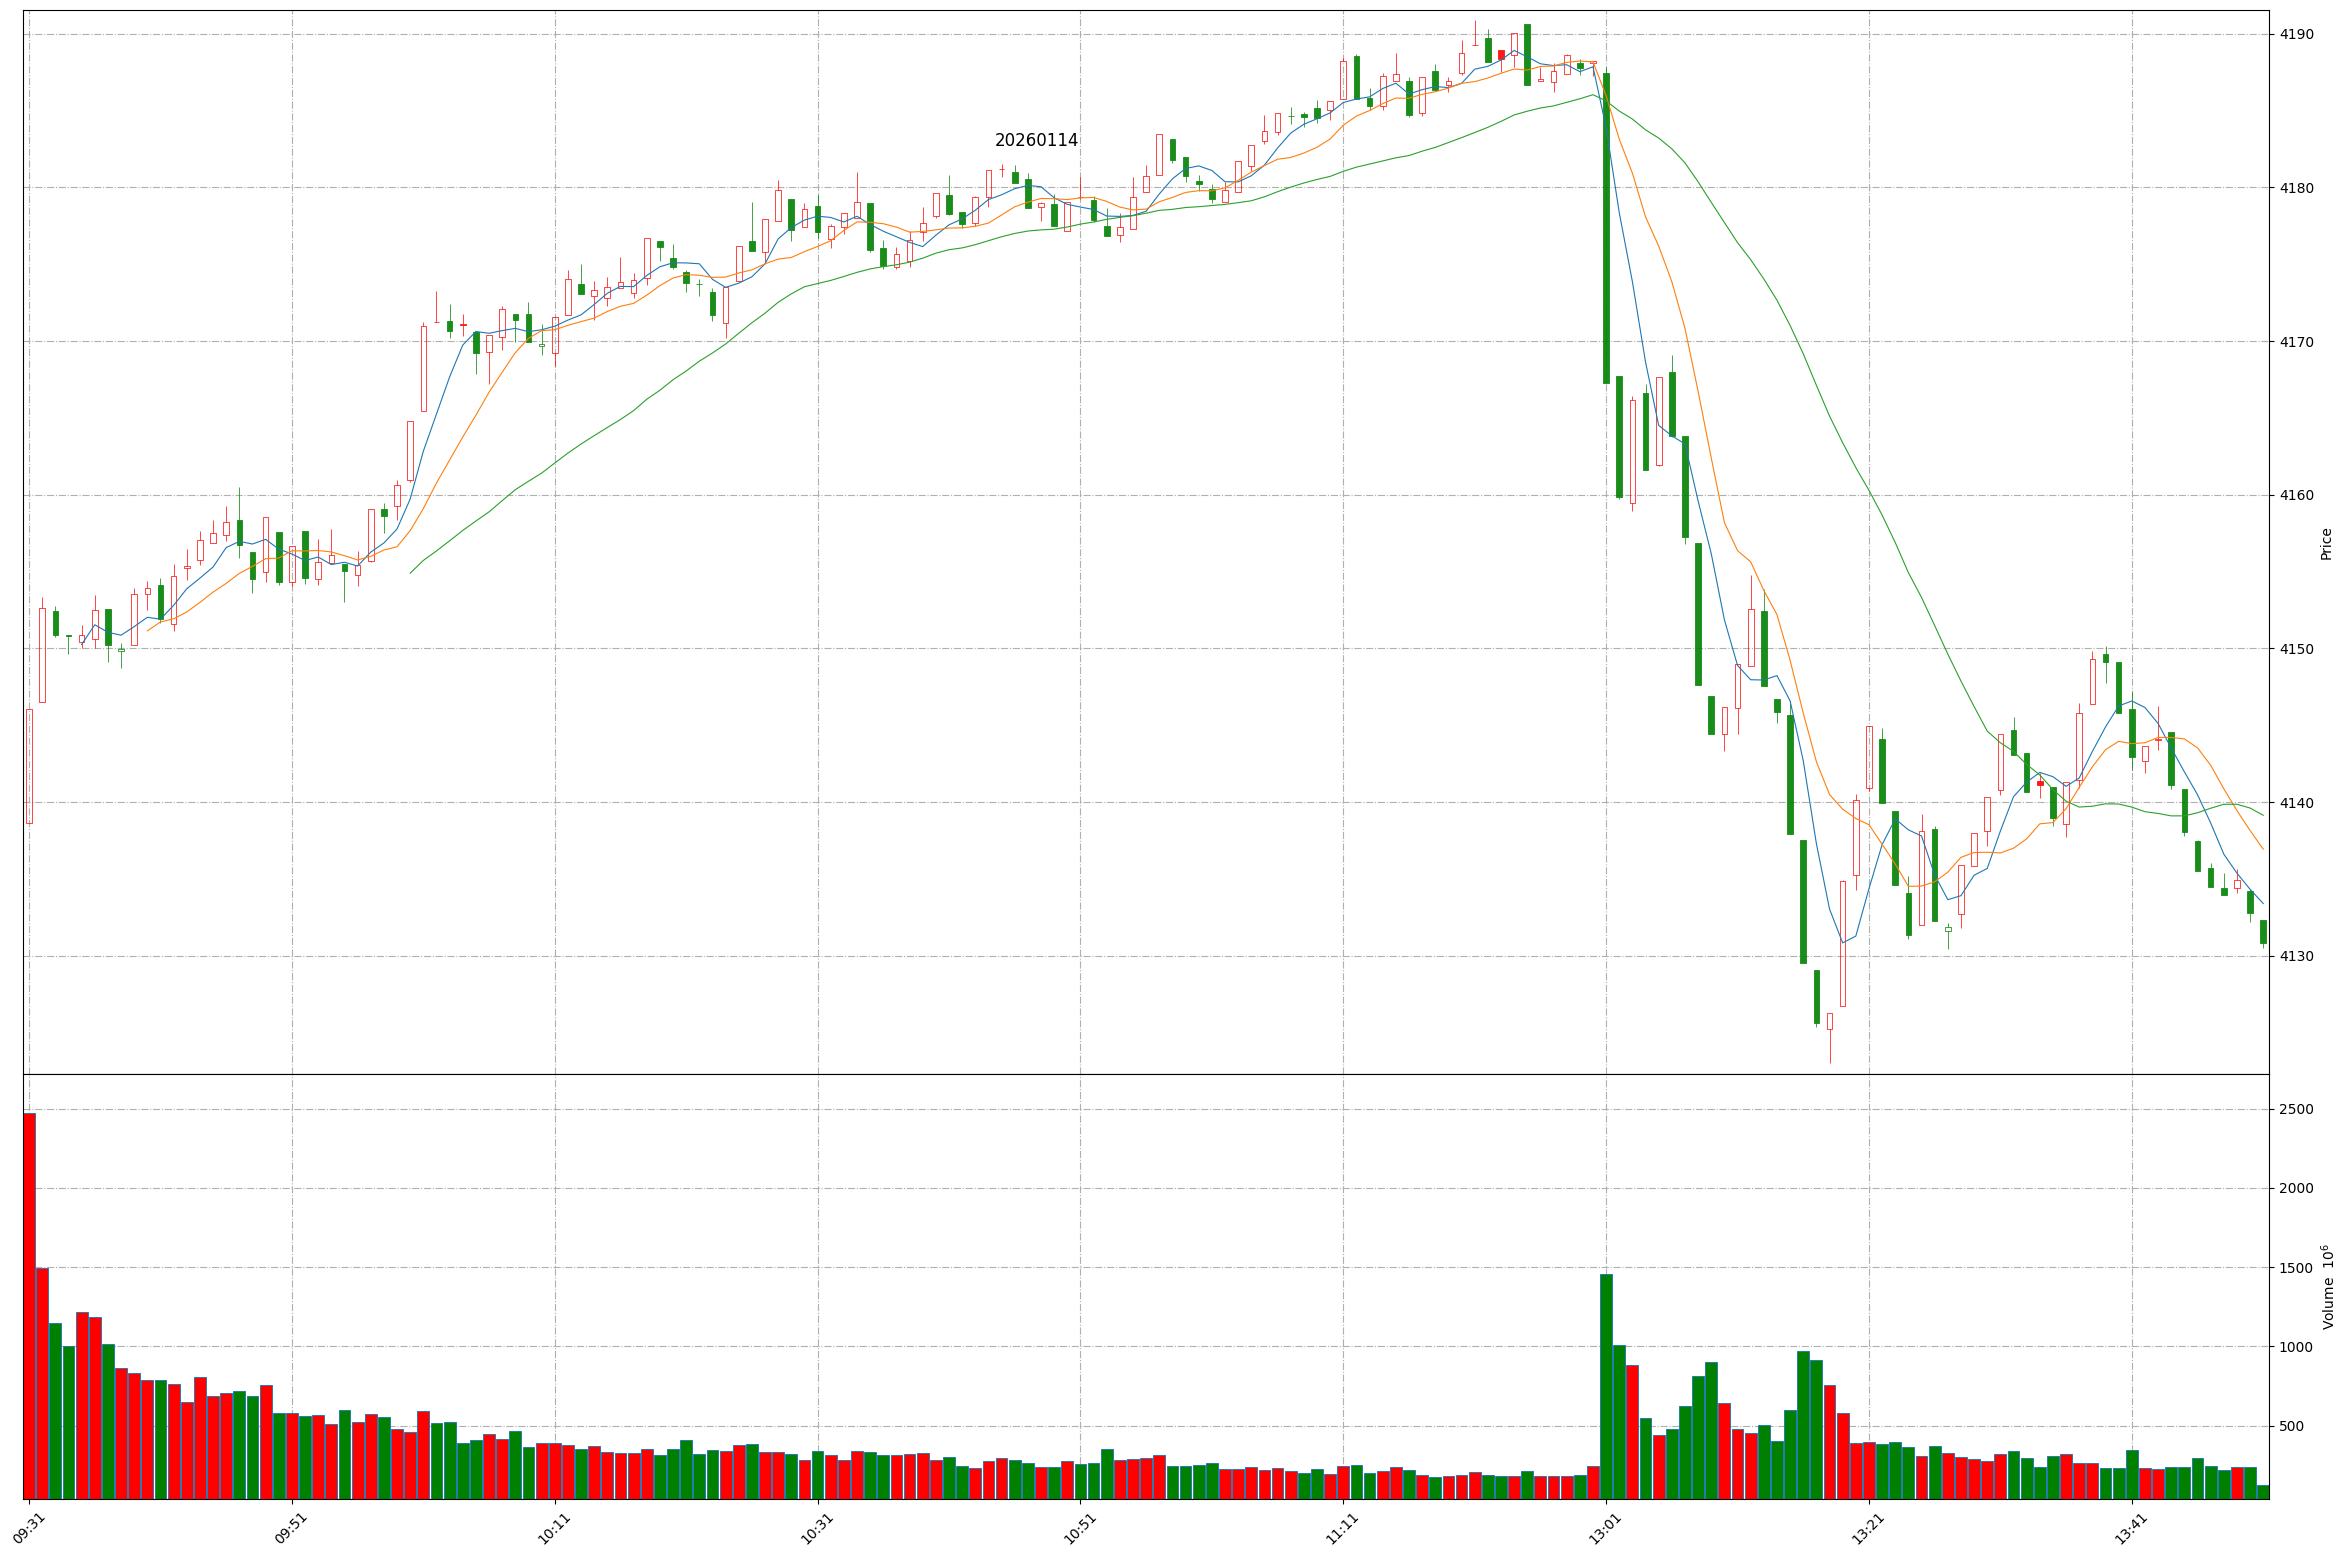
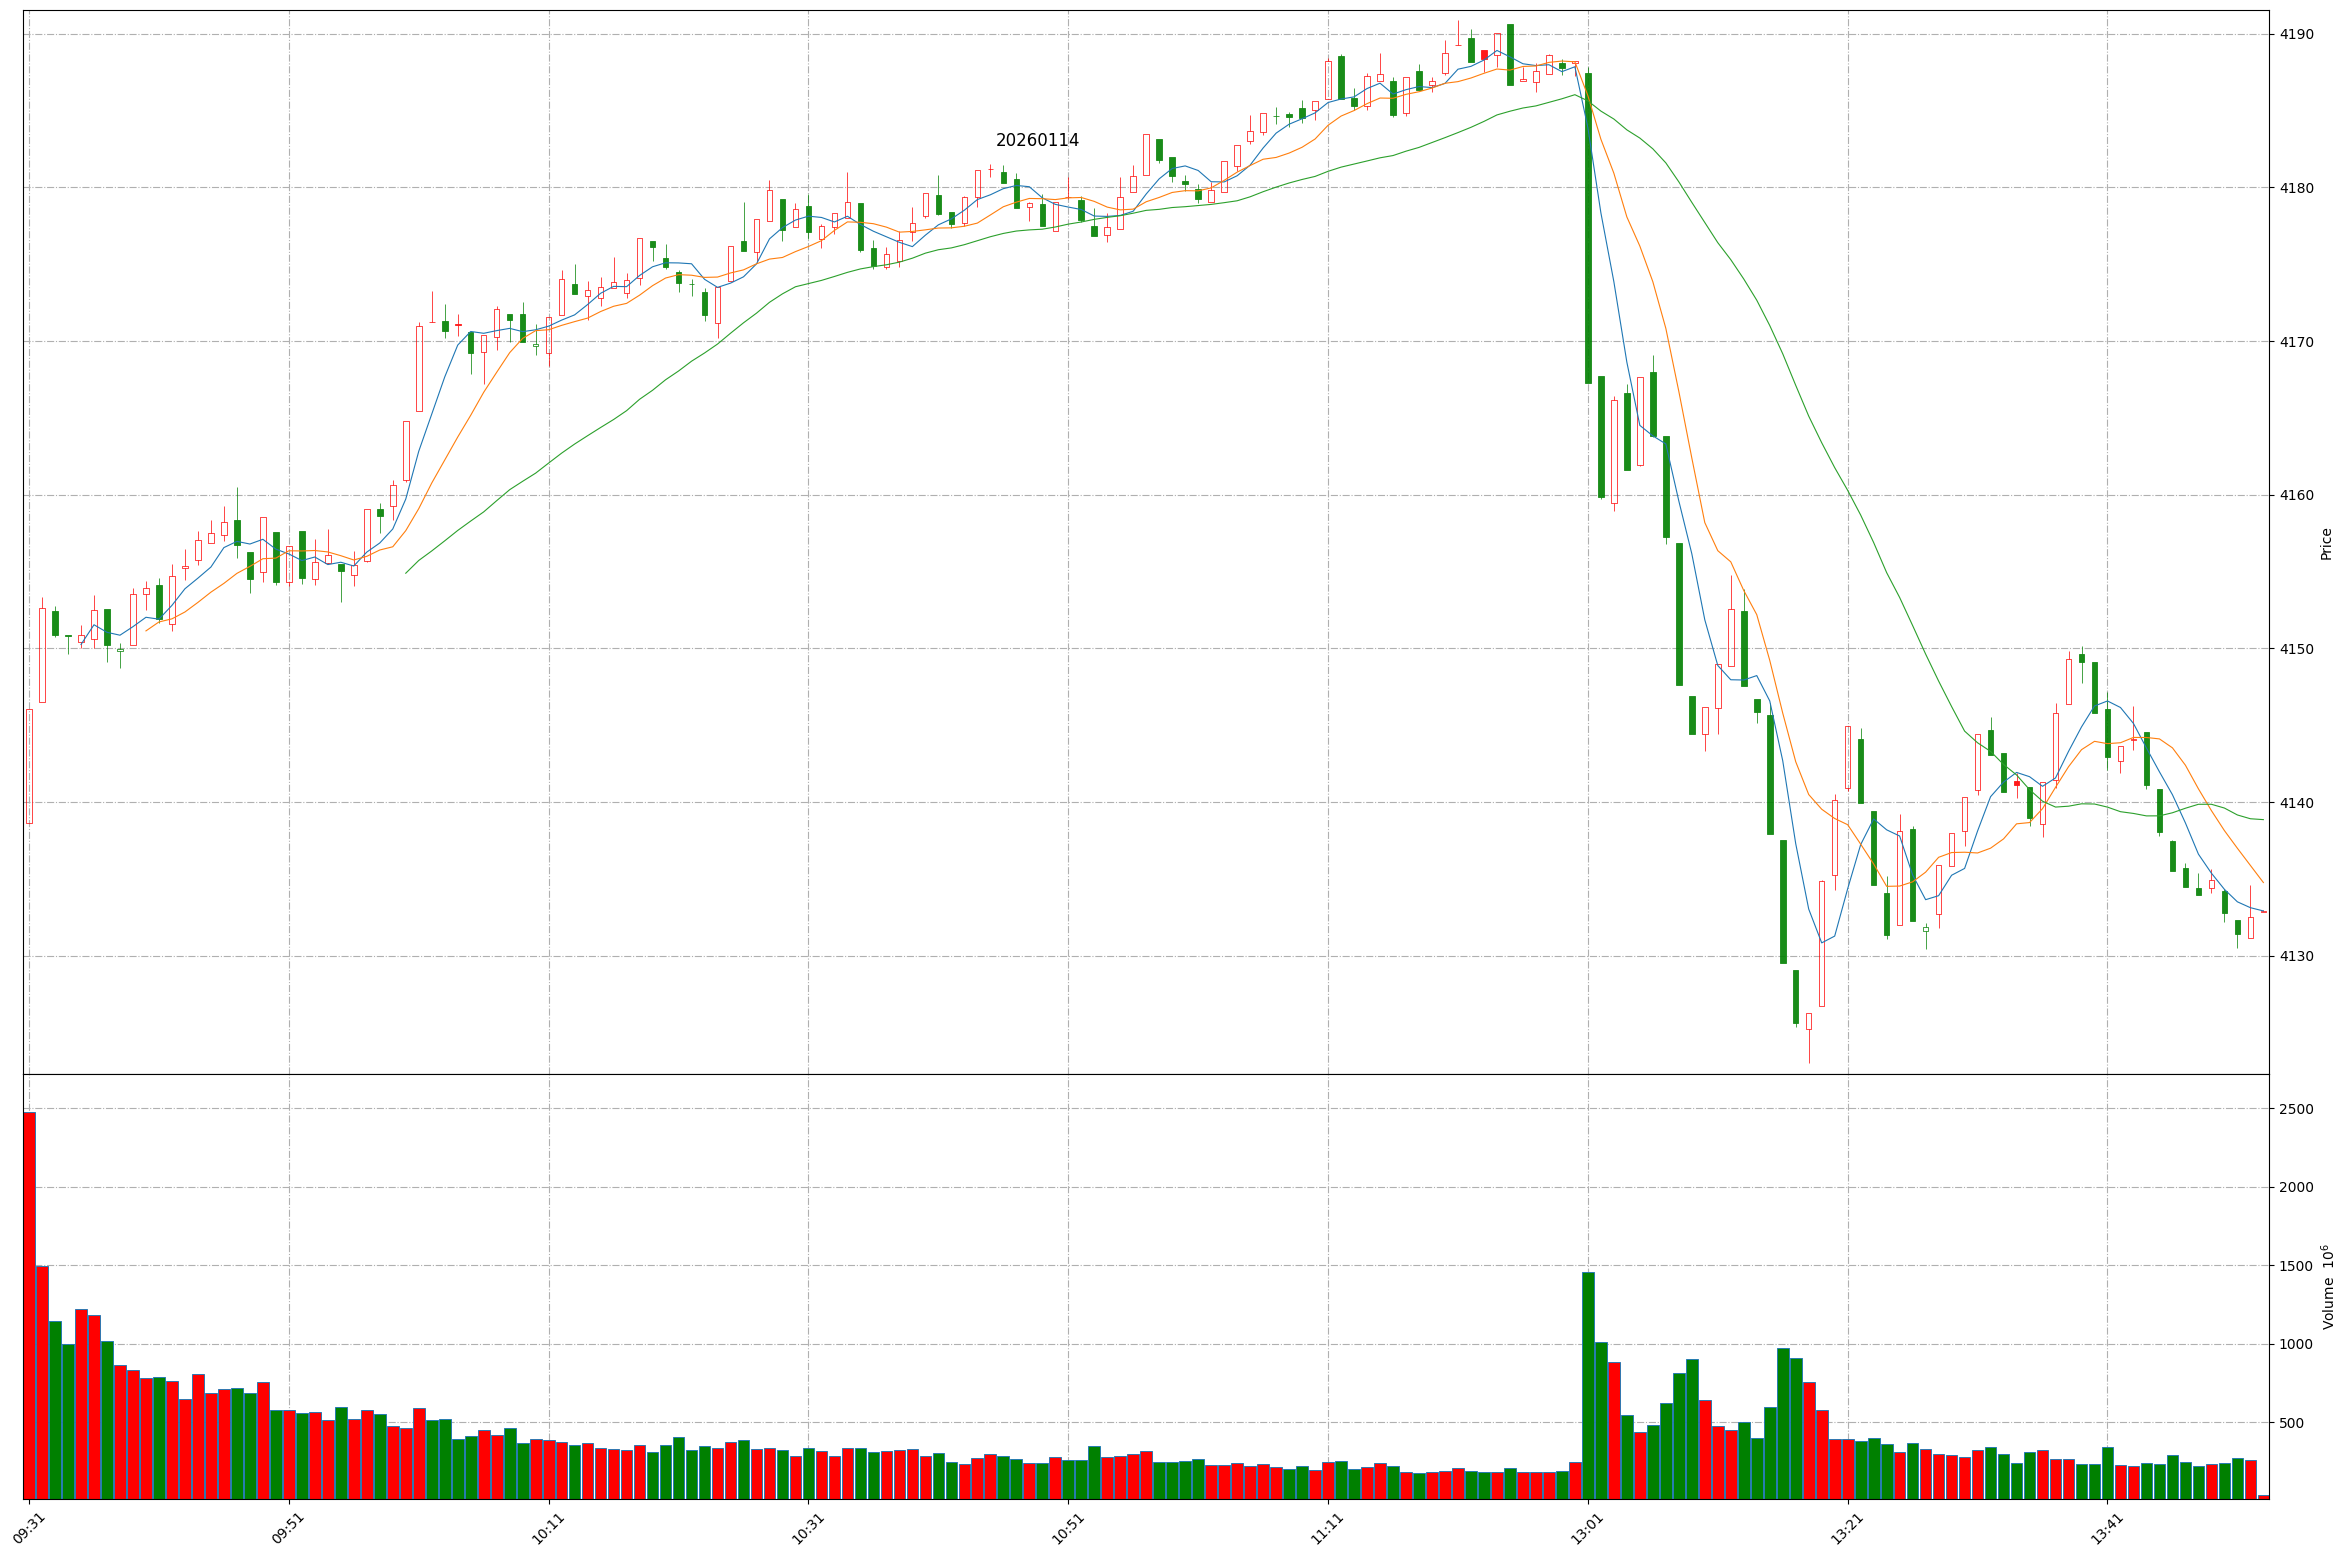
Github action update at 2026-01-14 13:52:25.

diff --git a/README.md b/README.md
@@ -1,11 +1,11 @@
 
 # Daily-A-share-market-quotes 每日 A 股指数（5min 更新）- 20260114
 
-### 上证指数 20260114 13:50
+### 上证指数 20260114 13:52
 ![](./fig/2026/1/20260114-sh000001.png)
 
-### 深证成指 20260114 13:50
+### 深证成指 20260114 13:52
 ![](./fig/2026/1/20260114-sz399001.png)
 
-### 北证50 20260114 13:50
+### 北证50 20260114 13:52
 ![](./fig/2026/1/20260114-bj899050.png)
